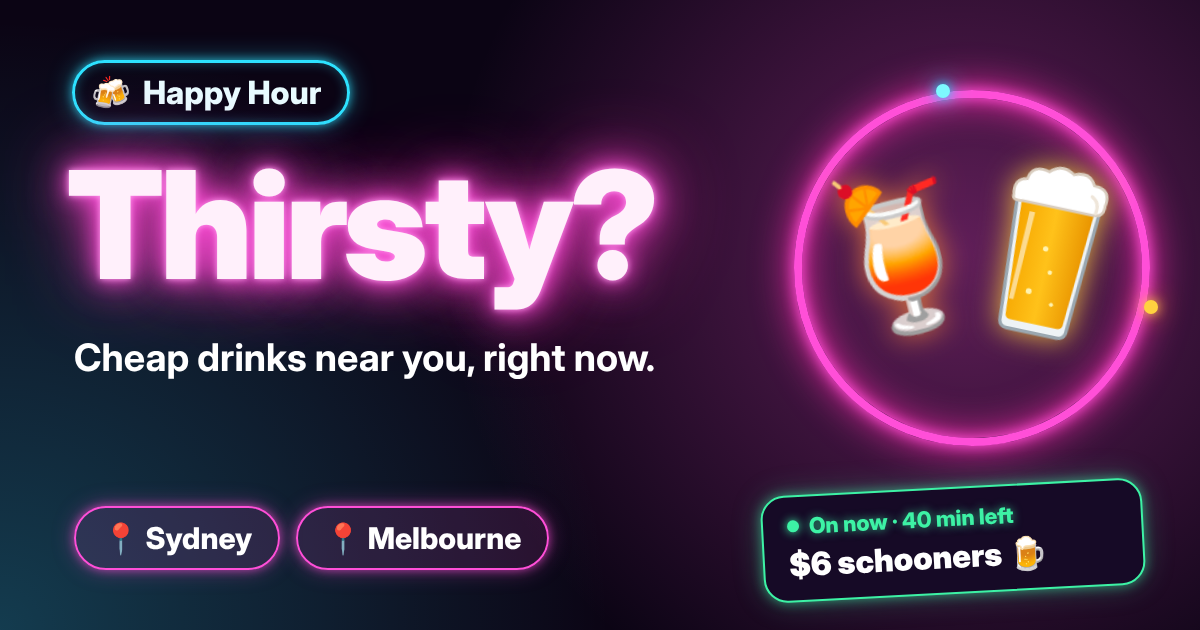
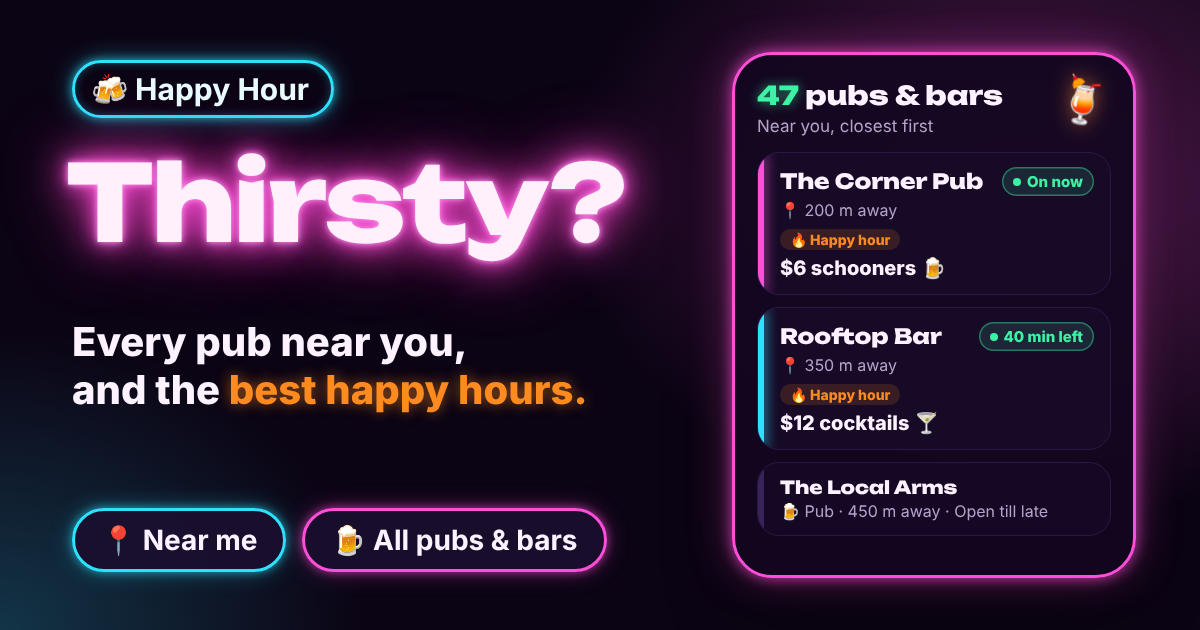
New link preview picture for the new tagline
The picture shown when the app's link is shared now says "Every pub near
you, and the best happy hours." with a peek at the pubs list. The link to
it is bumped to ?v=3 so apps fetch the new one, and the preview title
matches.

Claude-Session: https://claude.ai/code/session_018SdQR1HbSDNrbBQNXL9eDP

diff --git a/index.html b/index.html
@@ -17,13 +17,13 @@
 <!-- The preview that shows when the link is shared (WhatsApp, Instagram, Messages) -->
 <meta property="og:type" content="website">
 <meta property="og:url" content="https://sanj2888.github.io/Happy-Hour/">
-<meta property="og:title" content="Happy Hour 🍹 Cheap drinks near you">
+<meta property="og:title" content="Happy Hour 🍹 Every pub near you">
 <meta property="og:description" content="Every pub near you, and the best happy hours in Sydney and Melbourne.">
-<meta property="og:image" content="https://sanj2888.github.io/Happy-Hour/thumbnail.png?v=2">
+<meta property="og:image" content="https://sanj2888.github.io/Happy-Hour/thumbnail.png?v=3">
 <meta property="og:image:width" content="1200">
 <meta property="og:image:height" content="630">
 <meta name="twitter:card" content="summary_large_image">
-<meta name="twitter:image" content="https://sanj2888.github.io/Happy-Hour/thumbnail.png?v=2">
+<meta name="twitter:image" content="https://sanj2888.github.io/Happy-Hour/thumbnail.png?v=3">
 
 <link rel="preconnect" href="https://fonts.googleapis.com">
 <link rel="preconnect" href="https://fonts.gstatic.com" crossorigin>
